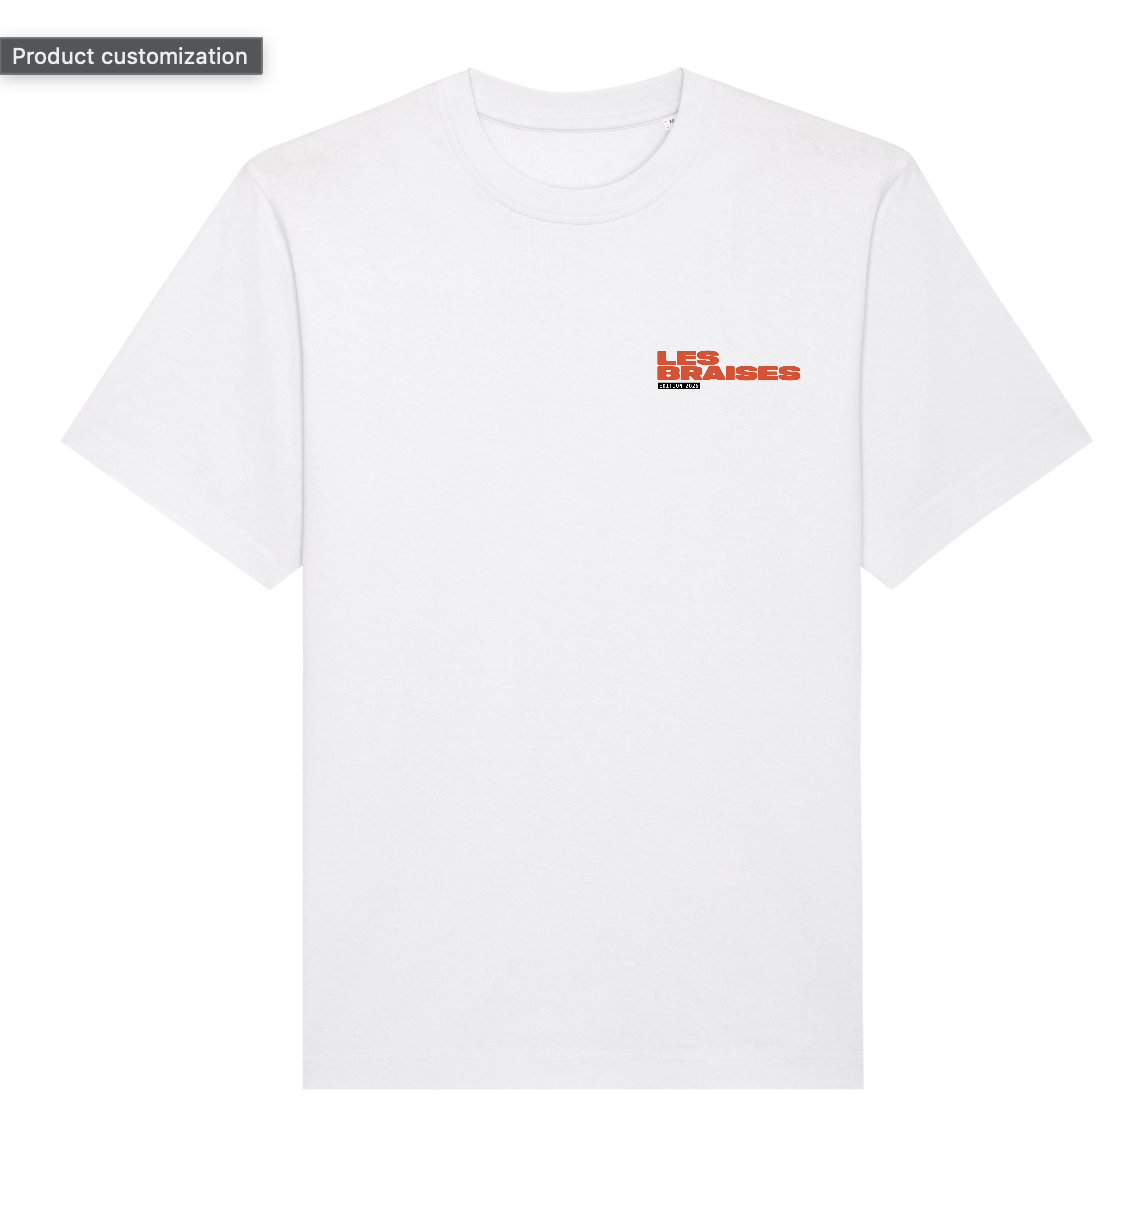
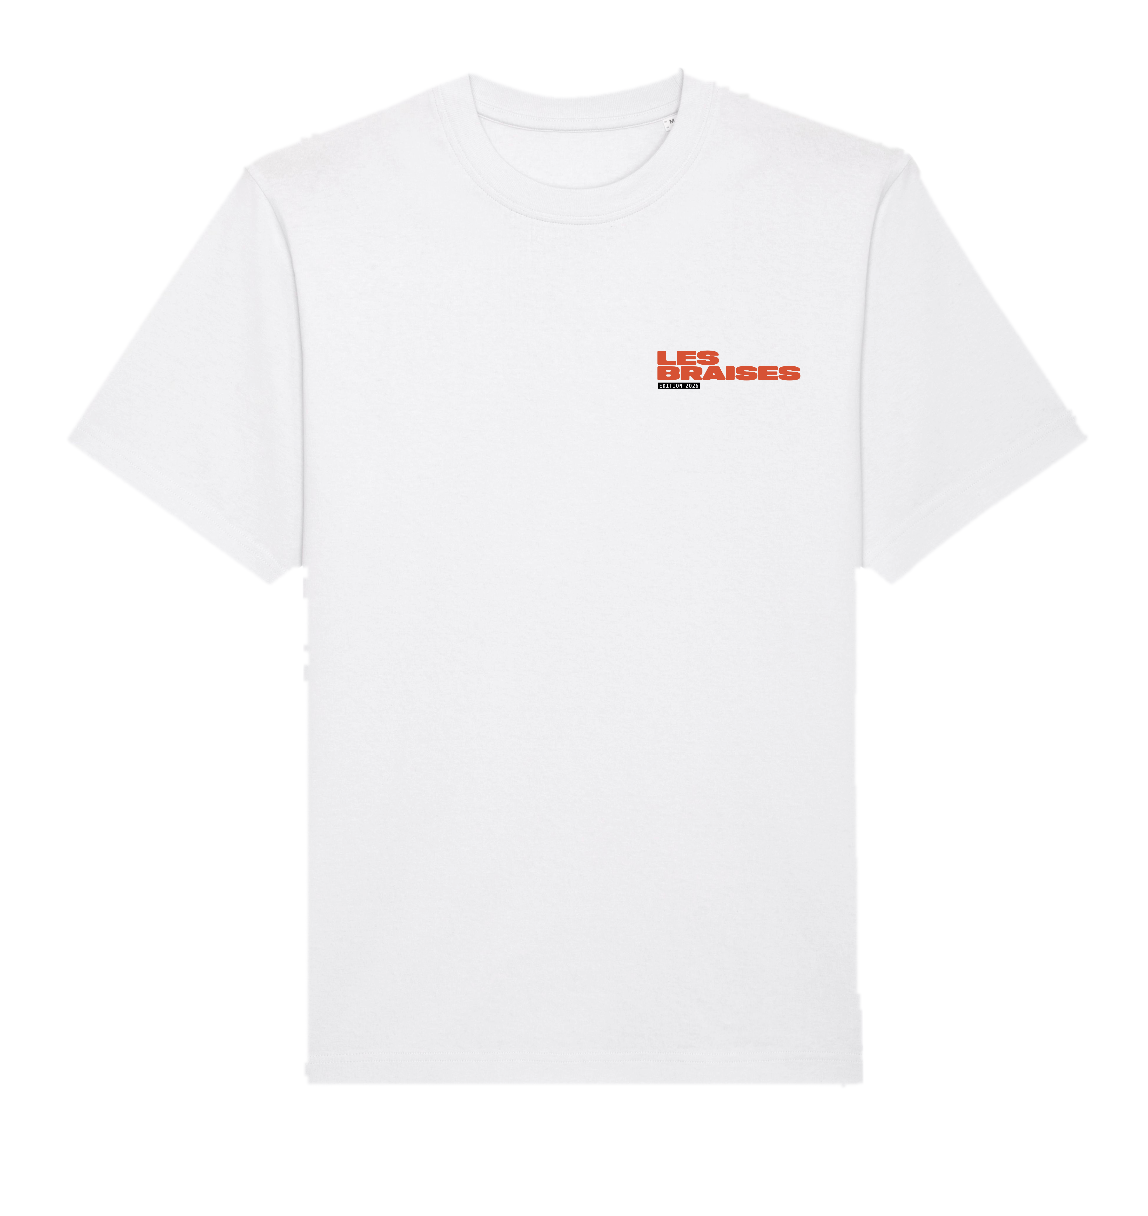
Nouveaux tarifs fixes, détourage t-shirts, aperçu zoom et taille XXL
Prix par invitant (25/37/49€) sans dépendance à la date d'arrivée,
t-shirt à 15€. Date d'arrivée conservée à titre informatif uniquement.
Visuels t-shirt détourés (fond transparent) avec aperçu en fenêtre modale.

Changed region(s): [[0.0, 0.0312, 0.2439, 0.0938]]

diff --git a/public/index.html b/public/index.html
@@ -136,10 +136,6 @@
       font-size: 0.67rem; letter-spacing: 0.15em;
       text-transform: uppercase; color: rgba(245,236,215,0.4);
     }
-    .date-option label .date-soirees {
-      font-size: 0.7rem; color: var(--orange);
-      font-style: italic; margin-top: 0.25rem;
-    }
     .date-option input[type="radio"]:checked + label {
       border-color: var(--orange);
       background: rgba(232,98,42,0.2);
@@ -259,6 +255,43 @@
     .tshirt-option input[type="radio"]:checked + label {
       border-color: var(--orange); background: rgba(232,98,42,0.18); color: var(--cream);
     }
+    .tshirt-zoom {
+      position: absolute; top: -6px; right: -6px; z-index: 3;
+      width: 22px; height: 22px; border-radius: 50%; padding: 0;
+      background: rgba(30,16,8,0.92); border: 1px solid rgba(232,98,42,0.6);
+      color: var(--cream); font-size: 11px; line-height: 1; cursor: pointer;
+      display: flex; align-items: center; justify-content: center;
+      transition: all 0.2s;
+    }
+    .tshirt-zoom:hover { background: rgba(232,98,42,0.4); border-color: var(--orange); }
+    .tshirt-modal-overlay {
+      display: none; position: fixed; top: 0; left: 0; width: 100%; height: 100%;
+      background: rgba(10,5,2,0.82); z-index: 200;
+      align-items: center; justify-content: center; padding: 1.5rem;
+    }
+    .tshirt-modal-overlay.visible { display: flex; }
+    .tshirt-modal-box {
+      background: #1e1008; border: 1px solid rgba(232,98,42,0.4);
+      border-radius: 16px; padding: 1.5rem; max-width: 420px; width: 100%;
+      position: relative; box-shadow: 0 8px 48px rgba(0,0,0,0.7);
+    }
+    .tshirt-modal-title {
+      font-family: 'Playfair Display', serif; font-size: 1.15rem; color: var(--jaune);
+    }
+    .tshirt-modal-close {
+      position: absolute; top: 0.7rem; right: 0.7rem;
+      width: 28px; height: 28px; border-radius: 50%;
+      background: rgba(245,236,215,0.08); border: none; color: var(--cream);
+      cursor: pointer; font-size: 14px;
+    }
+    .tshirt-modal-close:hover { background: rgba(232,98,42,0.3); }
+    .tshirt-modal-images { display: flex; gap: 1rem; margin-top: 1rem; }
+    .tshirt-modal-img-col { flex: 1; text-align: center; }
+    .tshirt-modal-img-col img { width: 100%; border-radius: 10px; }
+    .tshirt-modal-img-col span {
+      display: block; margin-top: 0.5rem; font-size: 0.7rem; letter-spacing: 0.15em;
+      text-transform: uppercase; color: rgba(245,236,215,0.45);
+    }
     .taille-wrap { display: none; margin-top: 0.6rem; }
     .taille-wrap.visible { display: block; }
     .success-wrap { text-align: center; padding: 0.5rem 0 1rem; }
@@ -355,21 +388,22 @@
           <div class="tshirt-option">
             <input type="radio" name="tshirt" id="tshirt-oui" value="oui" onchange="toggleTaille()" />
             <label for="tshirt-oui">
-              <div class="tshirt-img-wrap">
-                <img src=<img src="tshirt-recto.png" alt="T-shirt recto" style="width:48%;border-radius:4px"/>
-<img src="tshirt-verso.png" alt="T-shirt verso" style="width:48%;border-radius:4px"/>
- alt="T-shirt" />
+              <div class="tshirt-img-wrap" style="display:flex;gap:4px;width:100%">
+                <img src="tshirt-recto.png" alt="T-shirt recto" style="width:48%;border-radius:4px"/>
+                <img src="tshirt-verso.png" alt="T-shirt verso" style="width:48%;border-radius:4px"/>
+                <button type="button" class="tshirt-zoom" onclick="ouvrirApercuTshirt(event)" title="Voir en grand">👁</button>
               </div>
-              J'achète un t-shirt<br><strong style="color:var(--jaune)">+30 €</strong>
+              J'achète un t-shirt<br><strong style="color:var(--jaune)">+15 €</strong>
             </label>
           </div>
           <div class="tshirt-option non">
             <input type="radio" name="tshirt" id="tshirt-non" value="non" onchange="toggleTaille()" />
             <label for="tshirt-non">
-              <div class="tshirt-img-wrap">
-                <img src=<img src="tshirt-recto.png" alt="Pas de t-shirt" style="width:48%;border-radius:4px;opacity:0.5"/>
-<img src="tshirt-verso.png" alt="Pas de t-shirt" style="width:48%;border-radius:4px;opacity:0.5"/> alt="Pas de t-shirt" />
+              <div class="tshirt-img-wrap" style="display:flex;gap:4px;width:100%">
+                <img src="tshirt-recto.png" alt="Pas de t-shirt" style="width:48%;border-radius:4px;opacity:0.5"/>
+                <img src="tshirt-verso.png" alt="Pas de t-shirt" style="width:48%;border-radius:4px;opacity:0.5"/>
                 <div class="tshirt-croix"></div>
+                <button type="button" class="tshirt-zoom" onclick="ouvrirApercuTshirt(event)" title="Voir en grand">👁</button>
               </div>
               Je n'achète pas<br>de t-shirt
             </label>
@@ -384,6 +418,7 @@
               <option value="M">M</option>
               <option value="L">L</option>
               <option value="XL">XL</option>
+              <option value="XXL">XXL</option>
             </select>
             <span class="select-arrow">▼</span>
           </div>
@@ -397,7 +432,6 @@
             <label for="arrivee11">
               <span class="date-jour">11</span>
               <span class="date-mois">Septembre</span>
-              <span class="date-soirees">2 soirées</span>
             </label>
           </div>
           <div class="date-option">
@@ -405,7 +439,6 @@
             <label for="arrivee12">
               <span class="date-jour">12</span>
               <span class="date-mois">Septembre</span>
-              <span class="date-soirees">1 soirée</span>
             </label>
           </div>
         </div>
@@ -437,10 +470,6 @@
         <div class="recap-row">
           <span class="recap-key">Arrivée</span>
           <span class="recap-val" id="recap-arrivee"></span>
-        </div>
-        <div class="recap-row">
-          <span class="recap-key">Durée</span>
-          <span class="recap-val" id="recap-soirees"></span>
         </div>
         <div class="recap-row" id="recap-tshirt-row">
           <span class="recap-key">T-shirt</span>
@@ -480,6 +509,24 @@
   <!-- BOUTON MUSIQUE -->
   <button class="music-btn" id="music-btn" title="Couper/activer la musique">🔊</button>
 
+  <!-- APERÇU T-SHIRT -->
+  <div class="tshirt-modal-overlay" id="tshirt-modal" onclick="fermerApercuTshirt(event)">
+    <div class="tshirt-modal-box" onclick="event.stopPropagation()">
+      <button class="tshirt-modal-close" onclick="fermerApercuTshirt(event)" title="Fermer">✕</button>
+      <div class="tshirt-modal-title">Le t-shirt Les Braises</div>
+      <div class="tshirt-modal-images">
+        <div class="tshirt-modal-img-col">
+          <img src="tshirt-recto.png" alt="T-shirt recto" />
+          <span>Recto</span>
+        </div>
+        <div class="tshirt-modal-img-col">
+          <img src="tshirt-verso.png" alt="T-shirt verso" />
+          <span>Verso</span>
+        </div>
+      </div>
+    </div>
+  </div>
+
   <script>
     // ── MUSIQUE ──
     const music = document.getElementById('bg-music');
@@ -518,11 +565,10 @@
     let stripe, elements, cardElement;
     let tarifData = null;
 
-    function getTarif(inv, arrivee) {
-      const uneNuit = arrivee === '12';
-      if (inv === 'Camille') return { prix: uneNuit ? 19 : 20, label: 'Tarif amis de Camille' };
-      if (inv === 'Jean' || inv === 'Théophile') return { prix: uneNuit ? 34 : 35, label: 'Tarif ' + inv };
-      if (inv) return { prix: uneNuit ? 44 : 45, label: 'Tarif général' };
+    function getTarif(inv) {
+      if (inv === 'Camille') return { prix: 25, label: 'Tarif amis de Camille' };
+      if (inv === 'Jean' || inv === 'Théophile') return { prix: 37, label: 'Tarif ' + inv };
+      if (inv) return { prix: 49, label: 'Tarif général' };
       return null;
     }
 
@@ -530,6 +576,20 @@
       const checked = document.querySelector('input[name="arrivee"]:checked');
       return checked ? checked.value : null;
     }
+
+    // ── APERÇU T-SHIRT ──
+    function ouvrirApercuTshirt(e) {
+      e.preventDefault();
+      e.stopPropagation();
+      document.getElementById('tshirt-modal').classList.add('visible');
+    }
+    function fermerApercuTshirt(e) {
+      if (e) e.stopPropagation();
+      document.getElementById('tshirt-modal').classList.remove('visible');
+    }
+    document.addEventListener('keydown', (e) => {
+      if (e.key === 'Escape') fermerApercuTshirt();
+    });
 
     function toggleTaille() {
       const tshirt = document.querySelector('input[name="tshirt"]:checked');
@@ -552,17 +612,16 @@
       const badge = document.getElementById('tarif-badge');
 
       if (inv) {
-        const t = getTarif(inv, arrivee);
+        const t = getTarif(inv);
         tarifData = t;
         const tshirt = document.querySelector('input[name="tshirt"]:checked');
         const tshirtVal = tshirt ? tshirt.value : null;
-        const total = t.prix + (tshirtVal === 'oui' ? 30 : 0);
+        const total = t.prix + (tshirtVal === 'oui' ? 15 : 0);
         tarifData = { ...t, total: total };
         document.getElementById('tarif-amount').textContent = total + ' €';
         document.getElementById('tarif-invitant').textContent = t.label;
-        const soireesLabel = arrivee === '12' ? '1 soirée' : arrivee === '11' ? '2 soirées' : '';
         const tshirtLabel = tshirtVal === 'oui' ? ' · t-shirt inclus' : '';
-        document.getElementById('tarif-sous').textContent = (soireesLabel ? 'tarif · 1 billet · ' + soireesLabel : 'tarif · 1 billet') + tshirtLabel;
+        document.getElementById('tarif-sous').textContent = 'tarif · 1 billet' + tshirtLabel;
         badge.classList.add('visible');
       } else {
         badge.classList.remove('visible');
@@ -583,27 +642,22 @@
       const email = document.getElementById('email').value.trim();
       const inv = document.getElementById('invitant').value;
       const arrivee = getArrivee();
-      const soirees = arrivee === '12' ? '1 soirée' : '2 soirées';
 
       document.getElementById('recap-nom').textContent = prenom + ' ' + nom;
       document.getElementById('recap-email').textContent = email;
       document.getElementById('recap-inv').textContent = inv;
       document.getElementById('recap-arrivee').textContent = arrivee + ' septembre 2026';
-      document.getElementById('recap-soirees').textContent = soirees;
       const tshirtEl3 = document.querySelector('input[name="tshirt"]:checked');
       const tshirtVal3 = tshirtEl3 ? tshirtEl3.value : 'non';
       const taille3 = document.getElementById('taille-tshirt').value;
       if (tshirtVal3 === 'oui') {
-        document.getElementById('recap-tshirt').textContent = 'Oui — taille ' + taille3 + ' (+30 €)';
+        document.getElementById('recap-tshirt').textContent = 'Oui — taille ' + taille3 + ' (+15 €)';
         document.getElementById('recap-tshirt-row').style.display = 'flex';
       } else {
         document.getElementById('recap-tshirt-row').style.display = 'none';
       }
-      const tshirtEl = document.querySelector('input[name="tshirt"]:checked');
-      const tshirtVal2 = tshirtEl ? tshirtEl.value : 'non';
-      const taille2 = document.getElementById('taille-tshirt').value;
-      const tarifFinal = getTarif(inv, arrivee);
-      const tshirtAdd = (document.querySelector('input[name="tshirt"]:checked') || {}).value === 'oui' ? 30 : 0;
+      const tarifFinal = getTarif(inv);
+      const tshirtAdd = (document.querySelector('input[name="tshirt"]:checked') || {}).value === 'oui' ? 15 : 0;
       const totalFinal = tarifFinal.prix + tshirtAdd;
       tarifData = { ...tarifFinal, total: totalFinal };
       document.getElementById('recap-total').textContent = totalFinal + ' €';
@@ -648,7 +702,6 @@
       const email = document.getElementById('email').value.trim();
       const inv = document.getElementById('invitant').value;
       const arrivee = getArrivee();
-      const soirees = arrivee === '12' ? '1 soirée' : '2 soirées';
       const tshirtPay = document.querySelector('input[name="tshirt"]:checked');
       const tshirtValPay = tshirtPay ? tshirtPay.value : 'non';
       const taillePay = document.getElementById('taille-tshirt').value;
@@ -662,7 +715,6 @@
             nom: prenom + ' ' + nom,
             email: email,
             arrivee: arrivee,
-            soirees: soirees,
             tshirt: tshirtValPay,
             taille_tshirt: tshirtValPay === 'oui' ? taillePay : 'aucune'
           })
@@ -688,8 +740,7 @@
             prenom: prenom,
             email: email,
             invitant: inv,
-            arrivee: arrivee,
-            soirees: soirees
+            arrivee: arrivee
           })
         });
 
@@ -698,7 +749,7 @@
         document.getElementById('success-text').innerHTML =
           `Merci <strong>${prenom}</strong> !<br><br>
            Ton billet pour <strong>Les Braises 2026</strong><br>
-           Arrivée le <strong>${arrivee} septembre</strong> · <strong>${soirees}</strong><br>
+           Arrivée le <strong>${arrivee} septembre</strong><br>
            Les Aubrais, Machecoul<br><br>
            est confirmé. Un email de confirmation<br>
            t'a été envoyé à <strong>${email}</strong>.`;

diff --git a/server.js b/server.js
@@ -31,24 +31,23 @@ function sauvegarderAcheteur(acheteur) {
 }
 
 // Tarifs en centimes
-function getTarifCentimes(invitant, tshirt, arrivee) {
-  const uneNuit = arrivee === '12';
-  let base = uneNuit ? 4400 : 4500;
-  if (invitant === 'Camille') base = uneNuit ? 1900 : 2000;
-  else if (invitant === 'Jean' || invitant === 'Théophile') base = uneNuit ? 3400 : 3500;
-  if (tshirt === 'oui') base += 3000;
+function getTarifCentimes(invitant, tshirt) {
+  let base = 4900;
+  if (invitant === 'Camille') base = 2500;
+  else if (invitant === 'Jean' || invitant === 'Théophile') base = 3700;
+  if (tshirt === 'oui') base += 1500;
   return base;
 }
 
 // ── ROUTE : Création du PaymentIntent ──
 app.post('/create-payment-intent', async (req, res) => {
-  const { invitant, nom, email, arrivee, soirees, tshirt, taille_tshirt } = req.body;
+  const { invitant, nom, email, arrivee, tshirt, taille_tshirt } = req.body;
 
-  if (!invitant || !nom || !email || !arrivee || !soirees) {
+  if (!invitant || !nom || !email || !arrivee) {
     return res.status(400).json({ error: 'Informations manquantes.' });
   }
 
-  const montant = getTarifCentimes(invitant, tshirt, arrivee);
+  const montant = getTarifCentimes(invitant, tshirt);
 
   try {
     const paymentIntent = await stripe.paymentIntents.create({
@@ -59,7 +58,6 @@ app.post('/create-payment-intent', async (req, res) => {
         nom_acheteur: nom,
         invitant: invitant,
         arrivee: arrivee + ' septembre 2026',
-        soirees: soirees,
         festival: 'Les Braises 2026',
         lieu: 'Les Aubrais, Machecoul',
       },
@@ -81,7 +79,7 @@ app.post('/create-payment-intent', async (req, res) => {
 
 // ── ROUTE : Confirmation de paiement (appelée par le front après succès Stripe) ──
 app.post('/confirm-payment', async (req, res) => {
-  const { paymentIntentId, nom, prenom, email, invitant, arrivee, soirees, tshirt, taille_tshirt } = req.body;
+  const { paymentIntentId, nom, prenom, email, invitant, arrivee, tshirt, taille_tshirt } = req.body;
 
   try {
     // Vérifie auprès de Stripe que le paiement est bien réussi
@@ -98,7 +96,6 @@ app.post('/confirm-payment', async (req, res) => {
       nom: nom,
       prenom: prenom,
       email: email,
-      soirees: soirees,
       invitant: invitant,
       arrivee: arrivee + ' septembre 2026',
       tshirt: tshirt === 'oui' ? 'Oui — taille ' + taille_tshirt : 'Non',
@@ -153,7 +150,6 @@ app.get('/admin', (req, res) => {
     col.c-nom    { width: 130px; }
     col.c-prenom { width: 100px; }
     col.c-email  { width: 175px; }
-    col.c-soirees{ width: 75px; }
     col.c-invitant{ width: 90px; }
     col.c-arrivee{ width: 115px; }
     col.c-tshirt { width: 65px; }
@@ -165,9 +161,6 @@ app.get('/admin', (req, res) => {
     th { padding: 0.75rem 0.5rem; text-align: left; font-size: 0.63rem; letter-spacing: 0.1em; text-transform: uppercase; color: var(--orange); white-space: nowrap; overflow: hidden; text-overflow: ellipsis; }
     td { padding: 0.65rem 0.5rem; border-bottom: 1px solid rgba(245,236,215,0.07); white-space: nowrap; overflow: hidden; text-overflow: ellipsis; vertical-align: middle; }
     tr:hover td { background: rgba(245,236,215,0.03); }
-    .badge { display: inline-block; padding: 0.15rem 0.5rem; border-radius: 5px; font-size: 0.7rem; }
-    .badge-1 { background: rgba(240,180,41,0.15); color: var(--jaune); }
-    .badge-2 { background: rgba(232,98,42,0.15); color: var(--orange); }
     .empty { text-align: center; padding: 3rem; color: rgba(245,236,215,0.35); font-style: italic; }
     .btn-suppr { background: none; border: none; cursor: pointer; color: rgba(245,236,215,0.3); font-size: 15px; padding: 3px 5px; border-radius: 4px; transition: all 0.2s; }
     .btn-suppr:hover { color: #f09595; background: rgba(200,50,50,0.2); }
@@ -199,13 +192,13 @@ app.get('/admin', (req, res) => {
       <table>
         <colgroup>
           <col class="c-suppr"/><col class="c-num"/><col class="c-nom"/><col class="c-prenom"/>
-          <col class="c-email"/><col class="c-soirees"/><col class="c-invitant"/><col class="c-arrivee"/>
+          <col class="c-email"/><col class="c-invitant"/><col class="c-arrivee"/>
           <col class="c-tshirt"/><col class="c-taille"/><col class="c-montant"/><col class="c-date"/>
         </colgroup>
         <thead>
           <tr>
             <th></th><th>#</th><th>Nom</th><th>Prénom</th><th>Email</th>
-            <th>Soirées</th><th>Invité par</th><th>Arrivée</th>
+            <th>Invité par</th><th>Arrivée</th>
             <th>T-shirt</th><th>Taille</th><th>Montant</th><th>Date d'achat</th>
           </tr>
         </thead>
@@ -238,12 +231,11 @@ app.get('/admin', (req, res) => {
       const tbody = document.getElementById('table-body');
       let recette = 0;
       if (acheteurs.length === 0) {
-        tbody.innerHTML = '<tr><td colspan="12" class="empty">Aucun billet vendu pour le moment.</td></tr>';
+        tbody.innerHTML = '<tr><td colspan="11" class="empty">Aucun billet vendu pour le moment.</td></tr>';
       } else {
         tbody.innerHTML = acheteurs.map((a, i) => {
           const montantNum = parseFloat(a.montant);
           if (!isNaN(montantNum)) recette += montantNum;
-          const badgeClass = (a.soirees || '') === '1 soirée' ? 'badge-1' : 'badge-2';
           const tshirtPris = a.tshirt && a.tshirt.startsWith('Oui');
           const tshirtCell = tshirtPris ? 'Oui' : 'Non';
           const tailleCell = tshirtPris ? (a.tshirt || '').replace('Oui — taille ', '') : '';
@@ -253,7 +245,6 @@ app.get('/admin', (req, res) => {
             '<td><strong>' + (a.nom||'') + '</strong></td>' +
             '<td>' + (a.prenom||'') + '</td>' +
             '<td style="color:rgba(245,236,215,0.6);font-size:0.75rem">' + (a.email||'') + '</td>' +
-            '<td><span class="badge ' + badgeClass + '">' + (a.soirees||'') + '</span></td>' +
             '<td>' + (a.invitant||'') + '</td>' +
             '<td>' + (a.arrivee||'') + '</td>' +
             '<td>' + tshirtCell + '</td>' +
@@ -301,10 +292,10 @@ app.get('/export-csv', (req, res) => {
   }
 
   const acheteurs = lireAcheteurs();
-  const colonnes = ['Nom', 'Prénom', 'Email', 'Soirées', 'Invité par', 'Arrivée', 'T-shirt', 'Taille', 'Montant', "Date d'achat"];
+  const colonnes = ['Nom', 'Prénom', 'Email', 'Invité par', 'Arrivée', 'T-shirt', 'Taille', 'Montant', "Date d'achat"];
   const lignes = acheteurs.map(a => {
     const tshirtOui = a.tshirt && a.tshirt.startsWith('Oui');
-    return [a.nom, a.prenom, a.email, a.soirees, a.invitant, a.arrivee, tshirtOui ? 'Oui' : 'Non', tshirtOui ? a.tshirt.replace('Oui — taille ', '') : '', a.montant, a.date_achat];
+    return [a.nom, a.prenom, a.email, a.invitant, a.arrivee, tshirtOui ? 'Oui' : 'Non', tshirtOui ? a.tshirt.replace('Oui — taille ', '') : '', a.montant, a.date_achat];
   });
 
   const csvContent = [colonnes, ...lignes]
